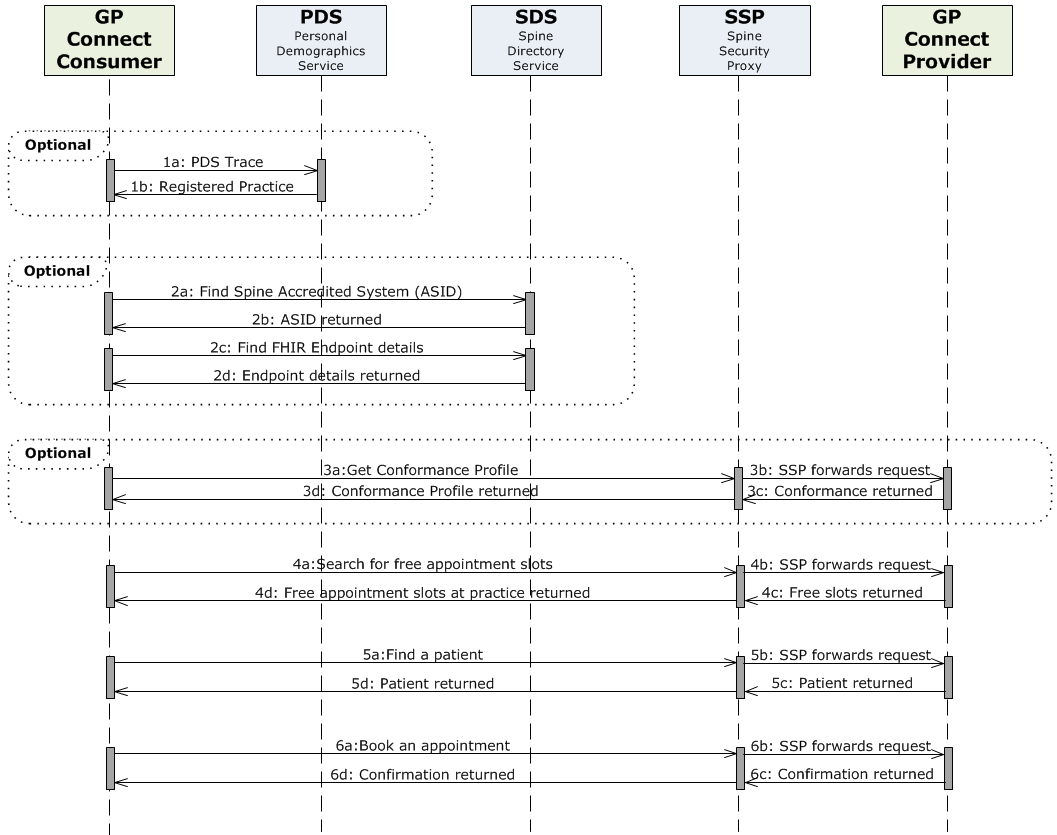
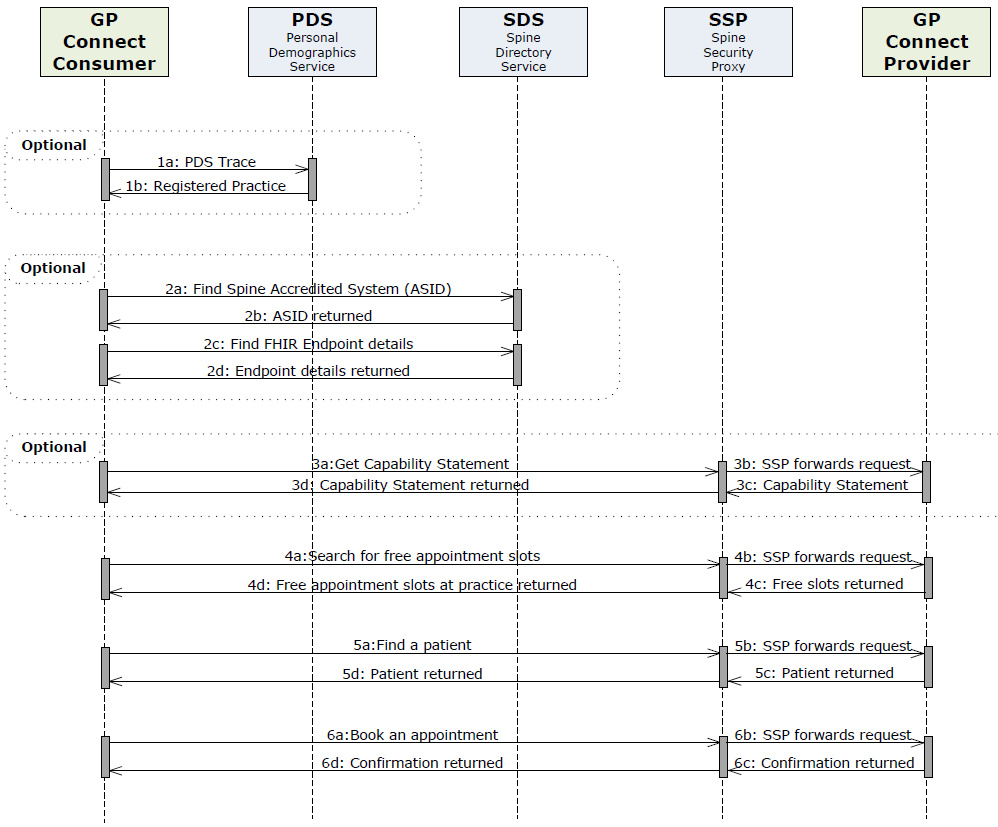
Minor textual changes to spine integration illustrated.

diff --git a/pages/integration/integration_illustrated.md b/pages/integration/integration_illustrated.md
@@ -37,11 +37,11 @@ The steps shown in the diagram are detailed below.
 | 2c   | **Consumer** calls Spine Directory Service again to discover the URL of the FHIR server endpoint at the practice | 
 | 2d   | **SDS** returns details of the FHIR endpoint. | 
 |      |      |
-|      | *Step 3 is optional in the sense that the conformance profile may be used to verify the capability which the endpoint provides should this be required at run time. The results of this call may be cached for future interactions.* |    
-| 3a   | **Consumer** calls the [metadata endpoint](foundations_use_case_get_the_fhir_capability_statement.html) at the practice FHIR server to request full details of which FHIR operations are implemented at that server - the Conformance Profile. |
+|      | *Step 3 is optional in the sense that the Capability Statement may be used to verify the FHIR capabilities which the endpoint provides should this be required at run time. The results of this call may be cached for future interactions.* |    
+| 3a   | **Consumer** calls the [metadata endpoint](foundations_use_case_get_the_fhir_capability_statement.html) at the practice FHIR server to request full details of which FHIR operations are implemented at that server - the Capability Statement. |
 | 3b   | **Spine Security Proxy (SSP)** receives the call from the Consumer, performs security checks, and if these pass, forwards the consumer request to the provider. |
-| 3c   | **Provider** returns the Conformance Profile to the SSP. |
-| 3d   | **SSP** forwards the Conformance Profile received from the Provider to the Consumer. |
+| 3c   | **Provider** returns the Capability Statement to the SSP. |
+| 3d   | **SSP** forwards the Capability Statement received from the Provider to the Consumer. |
 |      |      |
 | 4a   | **Consumer** then makes an API call to [Search for free slots](appointments_use_case_search_for_free_slots.html) at the practice in the specified time-frame. |
 | 4b   | **SSP** forwards the call from the Consumer, performs security checks, and if these pass, forwards the consumer request to the provider. |
